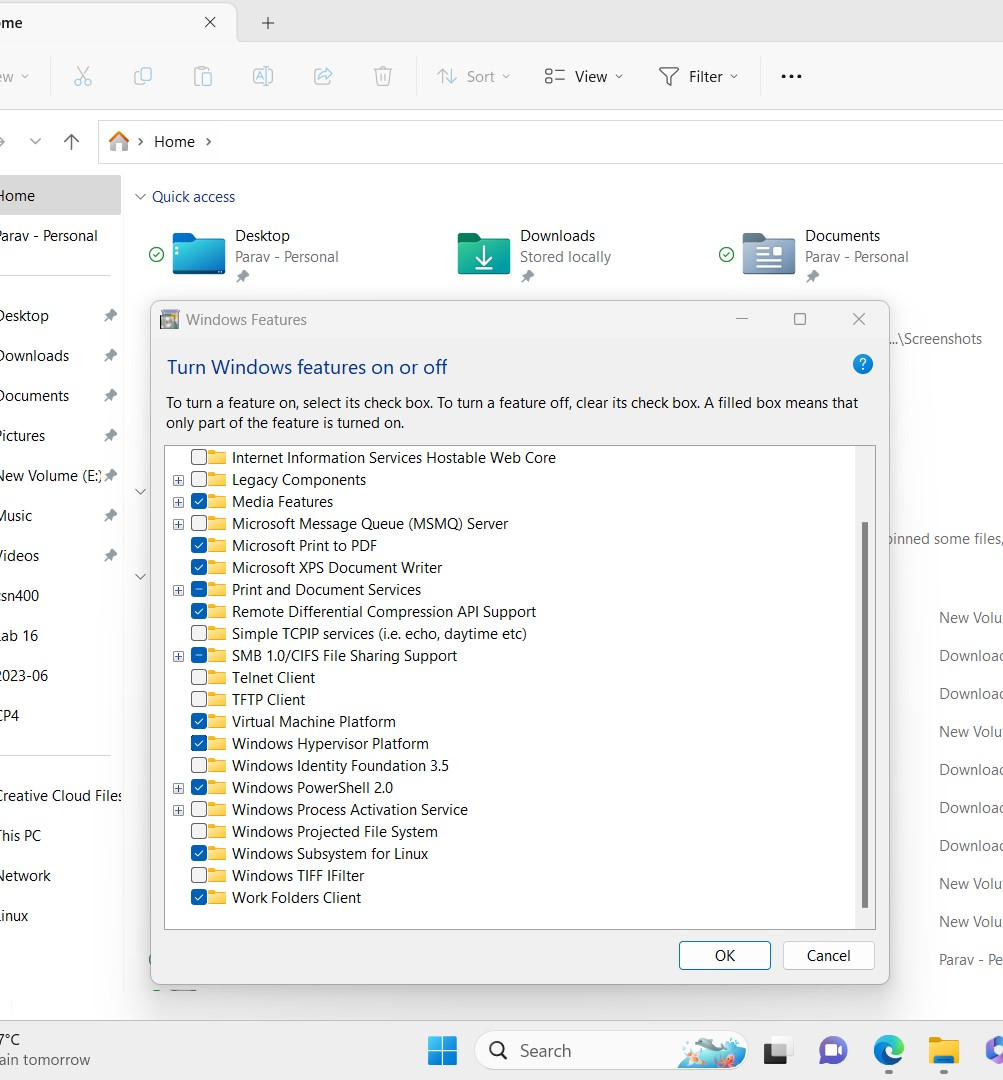
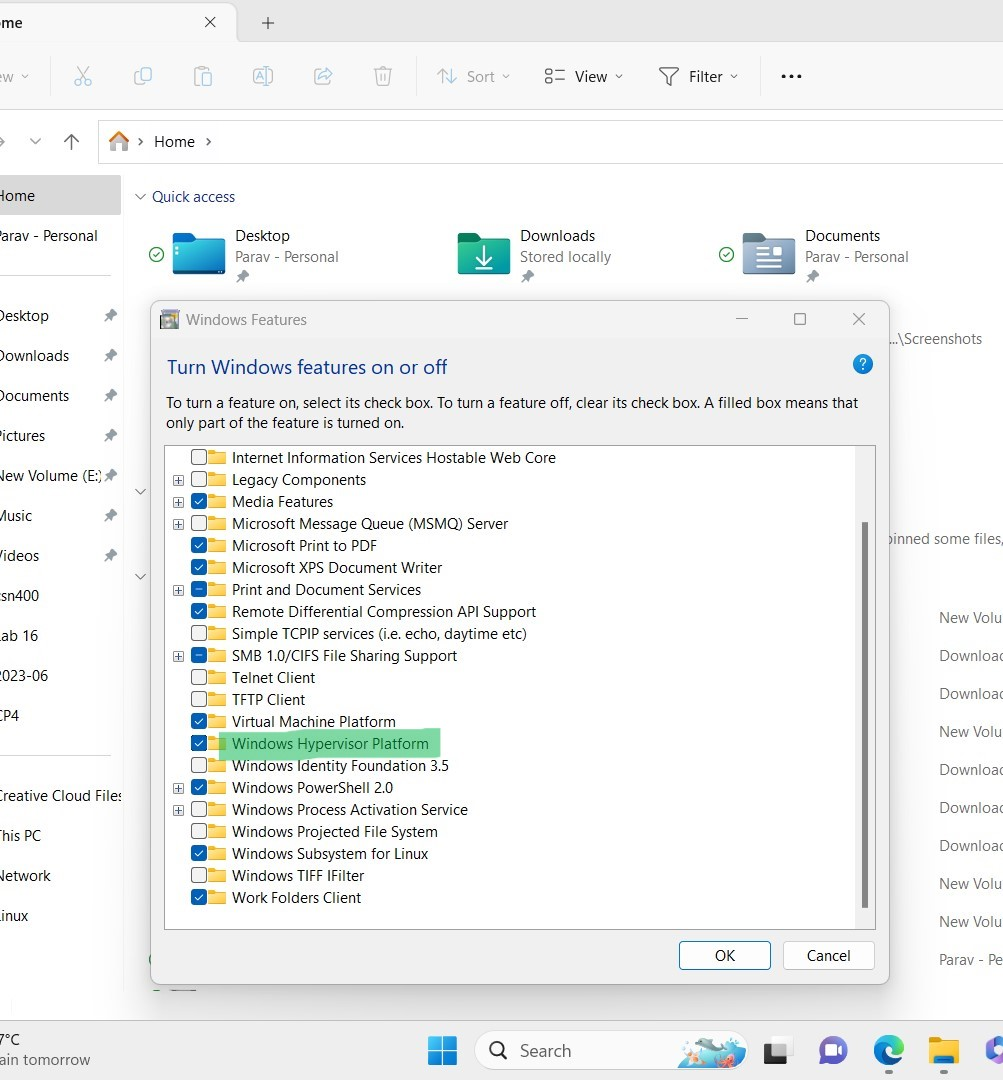
Added Docker Set up screenshot

Changed region(s): [[0.2164, 0.6722, 0.4636, 0.7028]]

diff --git a/Checkpoint4/README.md b/Checkpoint4/README.md
@@ -42,6 +42,12 @@
      alt="Docker Version"
      style="float: left; margin-right: 10px;" />
 <br>
+<li>Docker Set up</li>
+<br>
+<img src="Images/1.8.1.jpg"
+     alt="Docker Set up"
+     style="float: left; margin-right: 10px;" />
+<br>
 </ol>
 </em>
 
